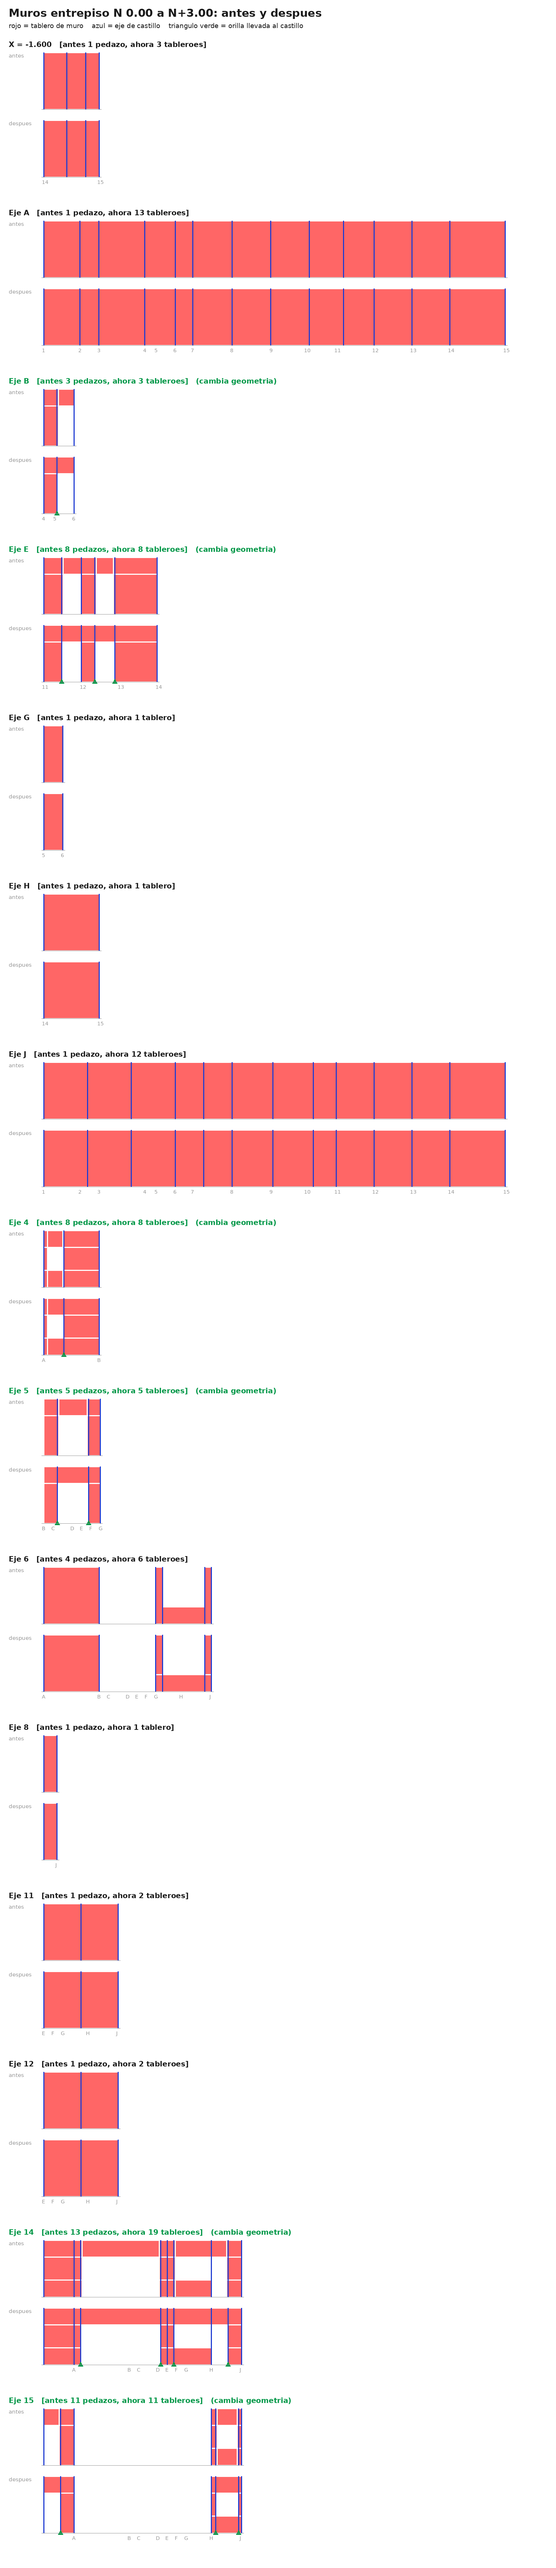
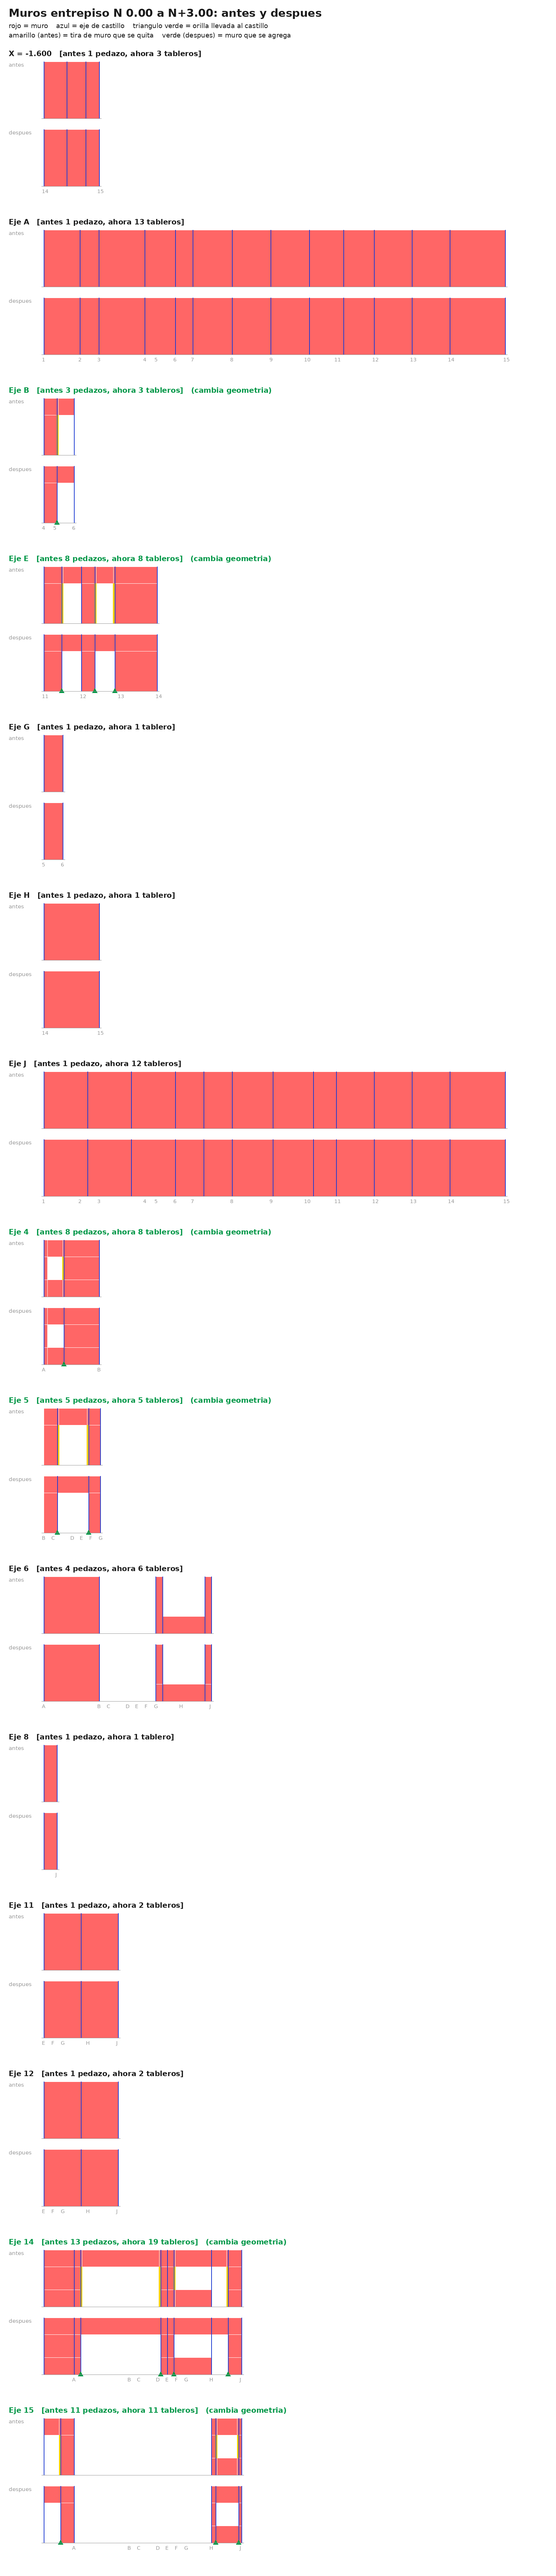
Marcar en las elevaciones las tiras que se quitan y lo que se agrega
En "antes" las tiras de 7.5 cm se veian como hueco por el borde blanco de
cada pedazo; ahora salen en amarillo. Lo que se agrega sale en verde.
Corrige el plural de "tableros" y parte las hojas altas en dos imagenes.

Claude-Session: https://claude.ai/code/session_01KfiKgtw7DoiqUqJPRuMCUw

diff --git a/tools/elevaciones_muros.py b/tools/elevaciones_muros.py
@@ -1,6 +1,9 @@
 #!/usr/bin/env python3
 """Dibuja, por entrepiso, la elevacion de cada eje de muro antes y despues.
+En "antes" pinta en amarillo lo que se quita y en "despues" en verde lo que
+se agrega, para que las tiras de pocos centimetros se vean.
 Uso: python3 elevaciones_muros.py ORIGINAL.e2k NUEVO.e2k CARPETA_SALIDA"""
+import json
 import os
 import re
 import sys
@@ -8,16 +11,19 @@ import sys
 from PIL import Image, ImageDraw, ImageFont
 
 sys.path.insert(0, __file__.rsplit("/", 1)[0])
-from redibujar_muros import Model, TOL  # noqa: E402
+from redibujar_muros import Model, TOL, cluster  # noqa: E402
 
 FONT = "/usr/share/fonts/truetype/dejavu/DejaVuSans.ttf"
 BOLD = "/usr/share/fonts/truetype/dejavu/DejaVuSans-Bold.ttf"
 f = lambda s, b=False: ImageFont.truetype(BOLD if b else FONT, s)
 PX = 52           # px por metro
+MAX_H = 7800      # alto maximo de cada imagen
 RED = (255, 102, 102)
 EDGE = (255, 255, 255)
 BLUE = (30, 60, 210)
 GREEN = (0, 150, 70)
+YELLOW = (255, 205, 0)
+ADDED = (0, 190, 90)
 GRAY = (150, 150, 150)
 DARK = (25, 25, 25)
 
@@ -44,33 +50,49 @@ def cross_grids(axis):
     return grids["Y" if axis == "X" else "X"]
 
 
-ga, _ = A.wall_pieces()
-gb, _ = B.wall_pieces()
-castA, castB = A.castillos(), B.castillos()
+def diff(P, Q):
+    """Rectangulos de P que no estan en Q (en el plano h-z)."""
+    hs = cluster([p[k] for p in P + Q for k in ("h0", "h1")])
+    zs = cluster([p[k] for p in P + Q for k in ("z0", "z1")])
+    inside = lambda S, h, z: any(p["h0"] - TOL < h < p["h1"] + TOL and p["z0"] - TOL < z < p["z1"] + TOL for p in S)
+    out = []
+    for a, b in zip(hs, hs[1:]):
+        for c, d in zip(zs, zs[1:]):
+            hm, zm = (a + b) / 2, (c + d) / 2
+            if inside(P, hm, zm) and not inside(Q, hm, zm):
+                out.append((a, b, c, d))
+    return out
 
 
-def draw_line(d, ox, oy, pieces, cast_h, h_min, zb, zt, axis, moved=()):
+def draw_line(d, ox, oy, pieces, cast_h, h_min, zb, zt, marks, mark_col, moved=()):
     H = (zt - zb) * PX
     X = lambda h: ox + (h - h_min) * PX
     Y = lambda z: oy + (zt - z) * PX
-    for lab, c in cross_grids(axis):
-        if h_min - 0.05 <= c <= h_min + 30:
-            pass
     for p in pieces:
-        d.rectangle([X(p["h0"]), Y(p["z1"]), X(p["h1"]), Y(p["z0"])], fill=RED, outline=EDGE, width=2)
+        d.rectangle([X(p["h0"]), Y(p["z1"]), X(p["h1"]), Y(p["z0"])], fill=RED, outline=EDGE, width=1)
+    for a, b, c, e in marks:
+        x0, x1 = X(a), X(b)
+        if x1 - x0 < 5:                      # que se vea aunque mida 7.5 cm
+            mid = (x0 + x1) / 2
+            x0, x1 = mid - 2.5, mid + 2.5
+        d.rectangle([x0, Y(e), x1, Y(c)], fill=mark_col)
     for h in cast_h:
-        d.line([(X(h), oy), (X(h), oy + H)], fill=BLUE, width=3)
+        d.line([(X(h), oy), (X(h), oy + H)], fill=BLUE, width=2)
     for h in moved:
         d.polygon([(X(h) - 7, oy + H + 4), (X(h) + 7, oy + H + 4), (X(h), oy + H - 8)], fill=GREEN)
     d.line([(ox - 6, oy + H), (X(max(p["h1"] for p in pieces)) + 6, oy + H)], fill=GRAY, width=1)
 
 
 rep_moves = {}
-import json  # noqa: E402
 rep_path = os.path.join(outdir, "..", "reporte_muros.json")
 if os.path.exists(rep_path):
     for mv in json.load(open(rep_path, encoding="utf-8"))["orillas_movidas"]:
         rep_moves.setdefault((mv["piso"], mv["eje"]), []).append(mv["a"])
+
+ga, _ = A.wall_pieces()
+gb, _ = B.wall_pieces()
+castB = B.castillos()
+plural = lambda n, s, pl: f"{n} {s if n == 1 else pl}"
 
 files = []
 for story in A.order[:-1]:
@@ -90,32 +112,37 @@ for story in A.order[:-1]:
         rows.append((k, pa, pb, ch, h_min, h_max))
     zt, zb = A.elev[story], A.elev[A.below(story)]
     Hpx = (zt - zb) * PX
-    width = int(max(r[5] - r[4] for r in rows) * PX) + 260
+    width = max(int(max(r[5] - r[4] for r in rows) * PX) + 260, 1000)
     row_h = int(2 * Hpx + 150)
-    img = Image.new("RGB", (max(width, 900), 120 + row_h * len(rows)), "white")
-    d = ImageDraw.Draw(img)
-    d.text((24, 18), f"Muros entrepiso {A.below(story)} a {story}: antes y despues", font=f(30, True), fill=DARK)
-    d.text((24, 60), "rojo = tablero de muro    azul = eje de castillo    triangulo verde = orilla llevada al castillo",
-           font=f(18), fill=DARK)
-    y = 110
-    for k, pa, pb, ch, h_min, h_max in rows:
-        _, axis, coord = k
-        eje = f"{axis}={coord:g}".replace(f"{axis}={coord:g}", f"{axis}={float(coord):g}")
-        moved = rep_moves.get((story, f"{axis}={coord:g}"), []) or rep_moves.get((story, f"{axis}={float(coord)}"), [])
-        tag = "   (cambia geometria)" if moved else ""
-        d.text((24, y), f"{grid_name(axis, coord)}   [antes {len(pa)} pedazo{"s" if len(pa) != 1 else ""}, ahora {len(pb)} tablero{"es" if len(pb) != 1 else ""}]{tag}",
-               font=f(20, True), fill=GREEN if moved else DARK)
-        d.text((24, y + 34), "antes", font=f(15), fill=GRAY)
-        draw_line(d, 120, y + 34, pa, ch, h_min, zb, zt, axis)
-        d.text((24, y + 34 + Hpx + 30), "despues", font=f(15), fill=GRAY)
-        draw_line(d, 120, y + 34 + Hpx + 30, pb, ch, h_min, zb, zt, axis, moved)
-        # rejillas que cruzan
-        for lab, c in cross_grids(axis):
-            if h_min - TOL <= c <= h_max + TOL:
-                xx = 120 + (c - h_min) * PX
-                d.text((xx - 5, y + 34 + 2 * Hpx + 36), lab, font=f(14), fill=GRAY)
-        y += row_h
-    path = os.path.join(outdir, f"muros_{story.replace(' ', '').replace('+', 'mas')}.png")
-    img.save(path)
-    files.append(path)
+    per_img = max(1, (MAX_H - 140) // row_h)
+    chunks = [rows[i:i + per_img] for i in range(0, len(rows), per_img)]
+    for ci, chunk in enumerate(chunks, 1):
+        img = Image.new("RGB", (width, 140 + row_h * len(chunk)), "white")
+        d = ImageDraw.Draw(img)
+        part = f"  ({ci} de {len(chunks)})" if len(chunks) > 1 else ""
+        d.text((24, 18), f"Muros entrepiso {A.below(story)} a {story}: antes y despues{part}", font=f(30, True), fill=DARK)
+        d.text((24, 60), "rojo = muro    azul = eje de castillo    triangulo verde = orilla llevada al castillo", font=f(18), fill=DARK)
+        d.text((24, 86), "amarillo (antes) = tira de muro que se quita    verde (despues) = muro que se agrega", font=f(18), fill=DARK)
+        y = 135
+        for k, pa, pb, ch, h_min, h_max in chunk:
+            _, axis, coord = k
+            moved = rep_moves.get((story, f"{axis}={coord:g}"), [])
+            removed, added = diff(pa, pb), diff(pb, pa)
+            tag = "   (cambia geometria)" if (removed or added) else ""
+            d.text((24, y), f"{grid_name(axis, coord)}   [antes {plural(len(pa), 'pedazo', 'pedazos')}, "
+                            f"ahora {plural(len(pb), 'tablero', 'tableros')}]{tag}",
+                   font=f(20, True), fill=GREEN if tag else DARK)
+            d.text((24, y + 34), "antes", font=f(15), fill=GRAY)
+            draw_line(d, 120, y + 34, pa, ch, h_min, zb, zt, removed, YELLOW)
+            d.text((24, y + 34 + Hpx + 30), "despues", font=f(15), fill=GRAY)
+            draw_line(d, 120, y + 34 + Hpx + 30, pb, ch, h_min, zb, zt, added, ADDED, moved)
+            for lab, c in cross_grids(axis):
+                if h_min - TOL <= c <= h_max + TOL:
+                    xx = 120 + (c - h_min) * PX
+                    d.text((xx - 5, y + 34 + 2 * Hpx + 36), lab, font=f(14), fill=GRAY)
+            y += row_h
+        suffix = f"_{ci}" if len(chunks) > 1 else ""
+        path = os.path.join(outdir, f"muros_{story.replace(' ', '').replace('+', 'mas')}{suffix}.png")
+        img.save(path)
+        files.append(path)
 print("\n".join(files))
